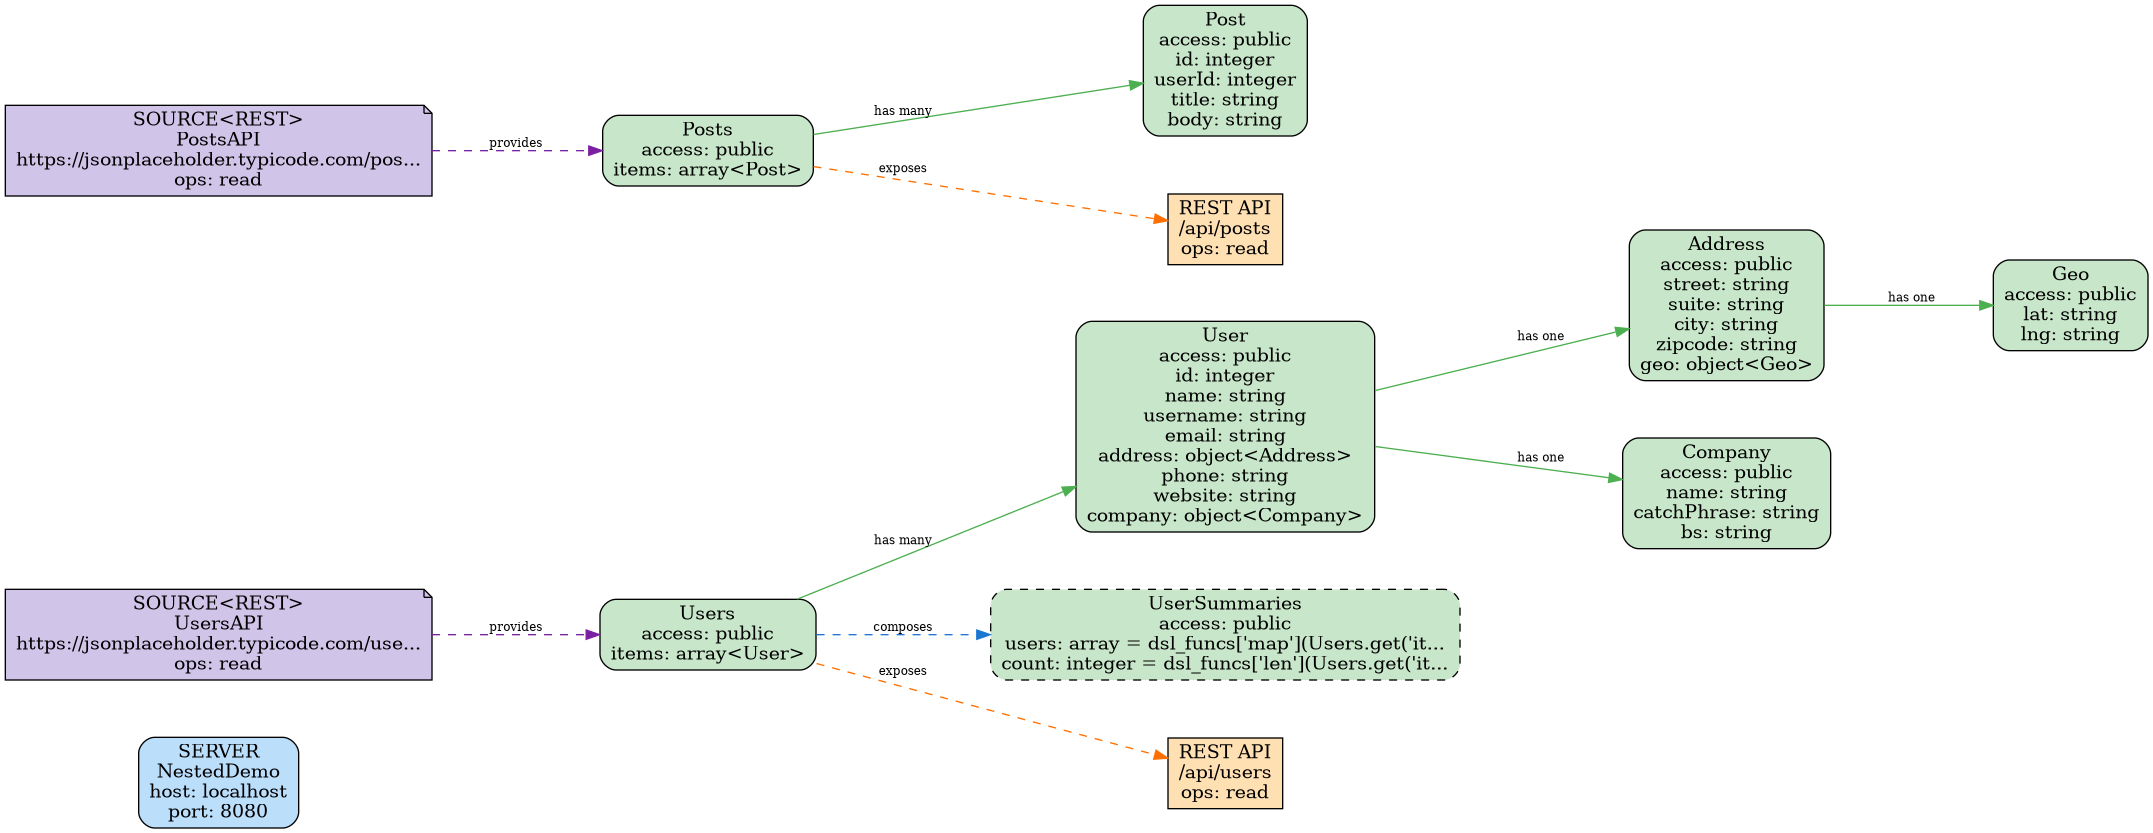
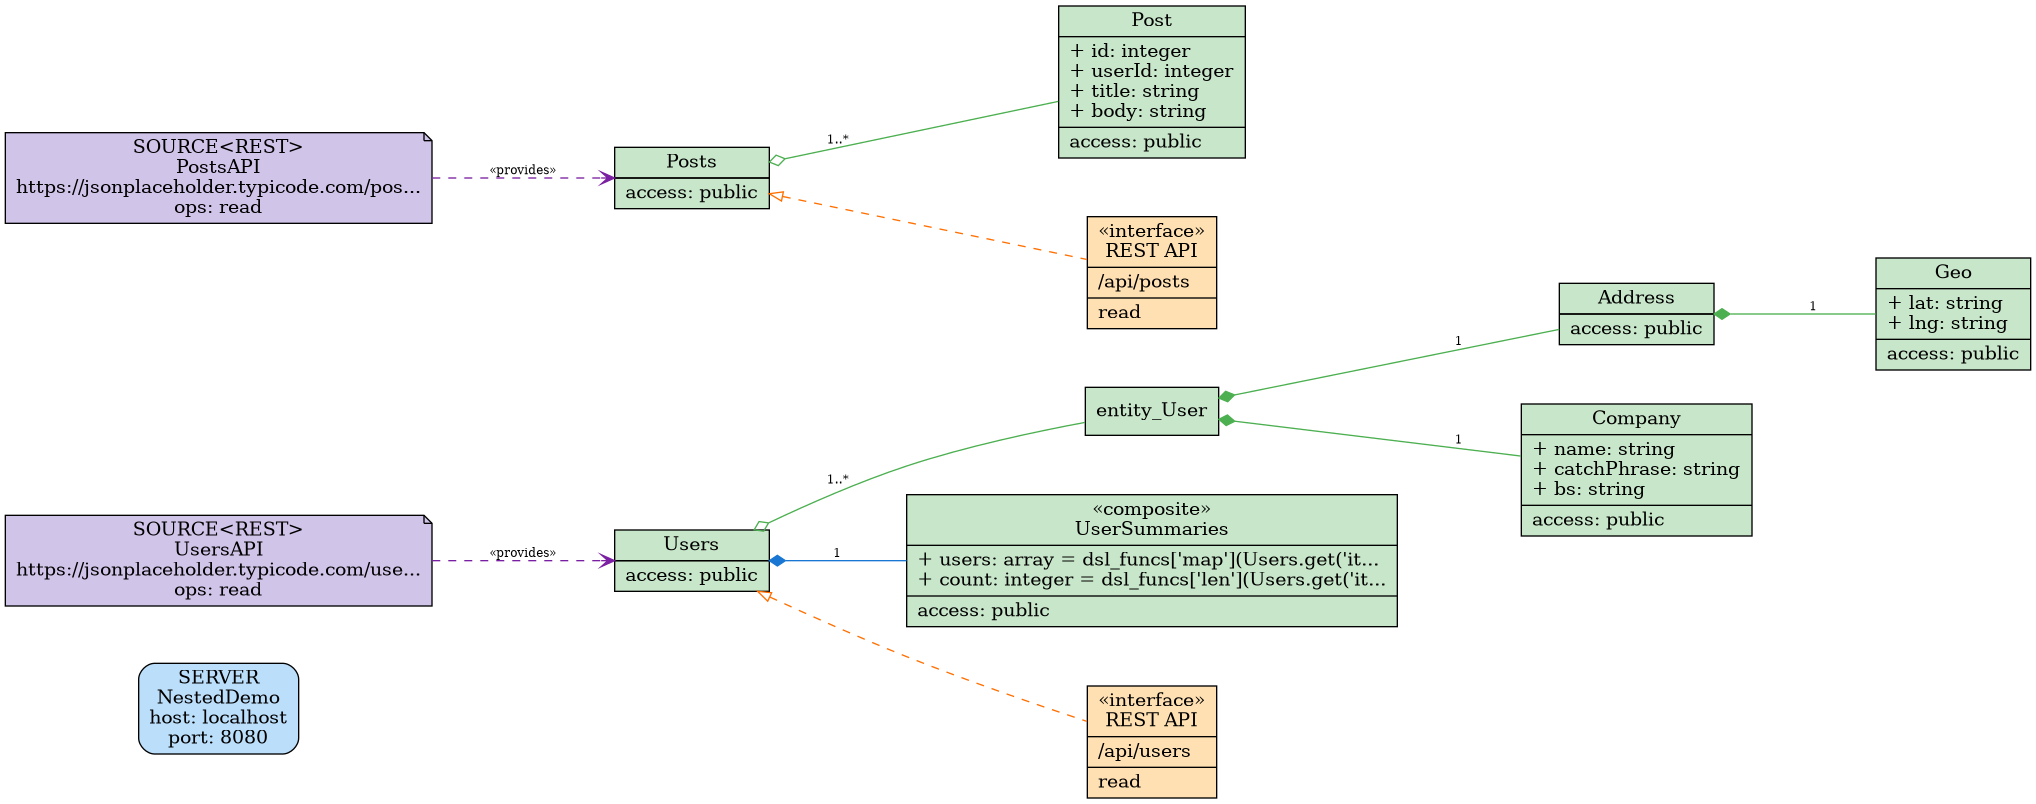
visualization fixes

Changed region(s): [[0.0, 0.0, 0.8664, 1.0], [0.0, 0.1244, 0.4332, 0.2799], [0.7117, 0.2488, 1.0, 0.4664]]

diff --git a/functionality_dsl/cli/cli.py b/functionality_dsl/cli/cli.py
@@ -389,12 +389,14 @@ def visualize_cmd(context, model_path, output_dir, no_components, metamodel, eng
                          label="uses", style="dashed", color="#ff9800")
 
         # -------------------------------
-        # Server (no auth reference - auth is per-entity now)
+        # Server (record shape with sections)
         # -------------------------------
         for s in model.servers:
-            label = f"SERVER\\n{s.name}\\nhost: {s.host}\\nport: {s.port}"
+            # Section 1: stereotype + name, Section 2: attributes
+            attrs = f"host: {s.host}\\lport: {s.port}\\l"
+            label = f"«server»\\n{s.name}|{attrs}"
             dot.node(f"server_{s.name}", label=label,
-                     shape="box", style="filled,rounded", fillcolor="#bbdefb")
+                     shape="record", style="filled", fillcolor="#bbdefb")
 
         # -------------------------------
         # REST Sources (Source<REST>)
@@ -404,10 +406,18 @@ def visualize_cmd(context, model_path, output_dir, no_components, metamodel, eng
             ops = get_source_operations(s)
             ops_str = ", ".join(ops) if ops else "none"
             source_auth = getattr(s, "auth", None)
+            # Get params if defined
+            params_obj = getattr(s, "params", None)
+            params_list = getattr(params_obj, "params", []) if params_obj else []
+            params_str = ", ".join(params_list) if params_list else None
 
-            label = f"SOURCE<REST>\\n{s.name}\\n{safe_label(url, 40)}\\nops: {ops_str}"
+            # Section 1: stereotype + name, Section 2: attributes
+            attrs = f"url: {safe_label(url, 40)}\\loperations: {ops_str}\\l"
+            if params_str:
+                attrs += f"params: {params_str}\\l"
+            label = f"«source» REST\\n{s.name}|{attrs}"
             dot.node(f"source_{s.name}", label=label,
-                     shape="note", style="filled", fillcolor="#d1c4e9")
+                     shape="record", style="filled", fillcolor="#d1c4e9")
 
             # Edge: Source -> Auth (if source has auth configured)
             if source_auth:
@@ -423,10 +433,18 @@ def visualize_cmd(context, model_path, output_dir, no_components, metamodel, eng
             ops = get_source_operations(s)
             ops_str = ", ".join(ops) if ops else "stream"
             source_auth = getattr(s, "auth", None)
+            # Get params if defined
+            params_obj = getattr(s, "params", None)
+            params_list = getattr(params_obj, "params", []) if params_obj else []
+            params_str = ", ".join(params_list) if params_list else None
 
-            label = f"SOURCE<WS>\\n{s.name}\\n{safe_label(channel, 40)}\\nops: {ops_str}"
+            # Section 1: stereotype + name, Section 2: attributes
+            attrs = f"channel: {safe_label(channel, 40)}\\loperations: {ops_str}\\l"
+            if params_str:
+                attrs += f"params: {params_str}\\l"
+            label = f"«source» WS\\n{s.name}|{attrs}"
             dot.node(f"source_{s.name}", label=label,
-                     shape="note", style="filled", fillcolor="#b39ddb")
+                     shape="record", style="filled", fillcolor="#b39ddb")
 
             # Edge: Source -> Auth (if source has auth configured)
             if source_auth:
@@ -434,7 +452,7 @@ def visualize_cmd(context, model_path, output_dir, no_components, metamodel, eng
                          label="auth", style="dotted", color="#ff9800")
 
         # -------------------------------
-        # Entities
+        # Entities (UML Class Diagram Style)
         # -------------------------------
         # First pass: identify schema-only entities (used in nested types)
         schema_only_entities = set()
@@ -460,11 +478,13 @@ def visualize_cmd(context, model_path, output_dir, no_components, metamodel, eng
             nested_entity_refs = []  # Track for drawing edges
             for a in e.attributes:
                 type_text = typespec_to_string(a.type)
+                # Escape angle brackets in type text for record shapes (e.g., integer<int64> -> integer\<int64\>)
+                type_text_escaped = safe_label(type_text, max_len=100, escape_angles=True)
                 if hasattr(a, "expr") and a.expr:
                     expr_text = expr_to_string(a.expr, max_len=30)
-                    attrs_lines.append(f"{a.name}: {type_text} = {safe_label(expr_text, 30)}")
+                    attrs_lines.append(f"+ {a.name}: {type_text_escaped} = {safe_label(expr_text, 30)}\\l")
                 else:
-                    attrs_lines.append(f"{a.name}: {type_text}")
+                    attrs_lines.append(f"+ {a.name}: {type_text_escaped}\\l")
 
                 # Track nested entity refs for edges
                 type_spec = getattr(a, "type", None)
@@ -476,7 +496,7 @@ def visualize_cmd(context, model_path, output_dir, no_components, metamodel, eng
                     if nested_entity:
                         nested_entity_refs.append((a.name, nested_entity.name, "object"))
 
-            attrs = "\\n".join(attrs_lines)
+            attrs = "".join(attrs_lines)
 
             # Get access control (handles new multi-auth syntax)
             access = getattr(e, "access", None)
@@ -532,71 +552,75 @@ def visualize_cmd(context, model_path, output_dir, no_components, metamodel, eng
                                     names.append(auth.name)
                                     access_auth_list.append(auth.name)
                             rule_strs.append(f"{op}: [{', '.join(names)}]")
-                    access_str = "\\n".join(rule_strs)
+                    access_str = " / ".join(rule_strs)
                 else:
                     access_str = "public"
             else:
                 access_str = "public"
 
-            # Determine node style based on entity type
+            # Determine stereotype and fill color based on entity type
             if entity_type == "inbound":
-                stereotype = "inbound"
+                stereotype = "«inbound»"
                 fillcolor = "#fff3e0"
-                style = "filled,rounded"
             elif entity_type == "outbound":
-                stereotype = "outbound"
+                stereotype = "«outbound»"
                 fillcolor = "#fce4ec"
-                style = "filled,rounded"
             elif is_composite:
-                # Composite entities: same green as regular entities, but dashed border
-                stereotype = None
+                stereotype = "«composite»"
                 fillcolor = "#c8e6c9"
-                style = "filled,dashed,rounded"
             else:
-                # Regular entities (including schema-only)
                 stereotype = None
                 fillcolor = "#c8e6c9"
-                style = "filled,rounded"
 
-            # Build label
+            # Build UML record-style label with vertical compartments
+            # With rankdir=LR, removing outer braces makes compartments stack vertically
             if stereotype:
-                label = f"[{stereotype}]\\n{e.name}\\naccess: {access_str}\\n{attrs}"
+                header = f"{stereotype}\\n{e.name}"
             else:
-                label = f"{e.name}\\naccess: {access_str}\\n{attrs}"
-            dot.node(f"entity_{e.name}", label=label,
-                     shape="box", style=style, fillcolor=fillcolor)
+                header = e.name
 
-            # Edge: Source -> Entity (for base entities with source)
+            # UML record label format: header|attributes|metadata (no outer braces for vertical)
+            label = f"{header}|{attrs}|access: {access_str}\\l"
+
+            dot.node(f"entity_{e.name}", label=label,
+                     shape="record", style="filled", fillcolor=fillcolor)
+
+            # Edge: Source -> Entity (UML dependency - dashed with open arrow)
             entity_source = getattr(e, "source", None)
             if entity_source:
                 dot.edge(f"source_{entity_source.name}", f"entity_{e.name}",
-                         label="provides", style="dashed", color="#7b1fa2")
+                         label="«provides»", style="dashed", arrowhead="vee", color="#7b1fa2")
 
-            # Edge: Parent -> Composite Entity
+            # Edge: Parent -> Composite Entity (UML composition - filled diamond)
             for parent in parents:
                 parent_entity = getattr(parent, "entity", parent)
                 parent_name = parent_entity.name if hasattr(parent_entity, "name") else str(parent_entity)
                 dot.edge(f"entity_{parent_name}", f"entity_{e.name}",
-                         label="composes", style="dashed", color="#1976d2")
+                         label="1", arrowtail="diamond", arrowhead="none", dir="back", color="#1976d2")
 
-            # Edge: Entity -> Nested Entity (for array<Entity> and object<Entity>)
+            # Edge: Entity -> Nested Entity (UML aggregation/composition)
             for attr_name, nested_name, ref_type in nested_entity_refs:
-                edge_label = "has many" if ref_type == "array" else "has one"
-                dot.edge(f"entity_{e.name}", f"entity_{nested_name}",
-                         label=edge_label, style="solid", color="#4caf50")
+                if ref_type == "array":
+                    # Aggregation with multiplicity 1..*
+                    dot.edge(f"entity_{e.name}", f"entity_{nested_name}",
+                             label="1..*", arrowtail="odiamond", arrowhead="none", dir="back", color="#4caf50")
+                else:
+                    # Composition with multiplicity 1
+                    dot.edge(f"entity_{e.name}", f"entity_{nested_name}",
+                             label="1", arrowtail="diamond", arrowhead="none", dir="back", color="#4caf50")
 
             # Edge: Role -> Entity (for role-based access)
             for role_name in access_roles_list:
                 dot.edge(f"role_{role_name}", f"entity_{e.name}",
-                         label="can access", style="dotted", color="#f9a825")
+                         arrowhead="vee", style="dashed", color="#f9a825")
 
             # Edge: Auth -> Entity (for auth-ref access)
             for auth_name in access_auth_list:
                 dot.edge(f"auth_{auth_name}", f"entity_{e.name}",
-                         label="protects", style="dotted", color="#ff9800")
+                         arrowhead="vee", style="dashed", color="#ff9800")
 
         # -------------------------------
-        # Generated REST API Endpoints
+        # Generated REST API Endpoints (UML Interface)
         # -------------------------------
         for e in model.entities:
             entity_source = getattr(e, "source", None)
@@ -613,19 +637,20 @@ def visualize_cmd(context, model_path, output_dir, no_components, metamodel, eng
             if not ops:
                 continue
 
-            # Create REST API endpoint node
+            # Create REST API endpoint node (UML interface style with record shape)
             api_path = f"/api/{e.name.lower()}"
             ops_str = ", ".join(ops)
-            label = f"REST API\\n{api_path}\\nops: {ops_str}"
+            # UML interface: «interface» stereotype with operations (vertical layout)
+            label = f"«interface»\\nREST API|{api_path}\\l|{ops_str}\\l"
             dot.node(f"api_{e.name}", label=label,
-                     shape="box", style="filled", fillcolor="#ffe0b2")
+                     shape="record", style="filled", fillcolor="#ffe0b2")
 
-            # Edge: Entity -> REST API
+            # Edge: Entity -> REST API (UML realization - dashed with empty triangle)
             dot.edge(f"entity_{e.name}", f"api_{e.name}",
-                     label="exposes", style="dashed", color="#ff6f00")
+                     arrowtail="onormal", arrowhead="none", dir="back", style="dashed", color="#ff6f00")
 
         # -------------------------------
-        # Generated WS Endpoints
+        # Generated WS Endpoints (UML Interface)
         # -------------------------------
         for e in model.entities:
             entity_type = getattr(e, "ws_flow_type", None)
@@ -634,33 +659,35 @@ def visualize_cmd(context, model_path, output_dir, no_components, metamodel, eng
             if entity_type not in ("inbound", "outbound"):
                 continue
 
-            # Create WS endpoint node
+            # Create WS endpoint node (UML interface style)
             ws_path = f"/ws/{e.name.lower()}"
             direction = "subscribe" if entity_type == "inbound" else "publish"
-            label = f"WS API\\n{ws_path}\\n{direction}"
+            # UML interface: «interface» stereotype with direction (vertical layout)
+            label = f"«interface»\\nWS API|{ws_path}\\l|{direction}\\l"
             dot.node(f"ws_{e.name}", label=label,
-                     shape="box", style="filled", fillcolor="#ffccbc")
+                     shape="record", style="filled", fillcolor="#ffccbc")
 
-            # Edge: Entity -> WS API
+            # Edge: Entity -> WS API (UML realization - dashed with empty triangle)
             dot.edge(f"entity_{e.name}", f"ws_{e.name}",
-                     label="exposes", style="dashed", color="#ff6f00")
+                     arrowtail="onormal", arrowhead="none", dir="back", style="dashed", color="#ff6f00")
 
         # -------------------------------
-        # Components
+        # Components (UML Component notation)
         # -------------------------------
         if show_components:
             for c in model.components:
                 comp_type = c.__class__.__name__.replace("Component", "")
-                label = f"COMPONENT\\n{c.name}\\ntype: {comp_type}"
+                # UML component: «component» stereotype (vertical layout)
+                label = f"«component»\\n{c.name}|type: {comp_type}\\l"
                 dot.node(f"comp_{c.name}", label=label,
-                         shape="ellipse", style="filled", fillcolor="#f8bbd0")
+                         shape="record", style="filled", fillcolor="#f8bbd0")
 
-                # Edge: Component -> Entity
+                # Edge: Component -> Entity (UML dependency)
                 entity_ref = getattr(c, "entity_ref", None) or getattr(c, "entity", None)
                 if entity_ref:
                     entity_name = entity_ref.name if hasattr(entity_ref, "name") else str(entity_ref)
                     dot.edge(f"comp_{c.name}", f"entity_{entity_name}",
-                             label="binds", style="dashed", color="#e91e63")
+                             arrowhead="vee", style="dashed", color="#e91e63")
 
         # -------------------------------
         # Output
